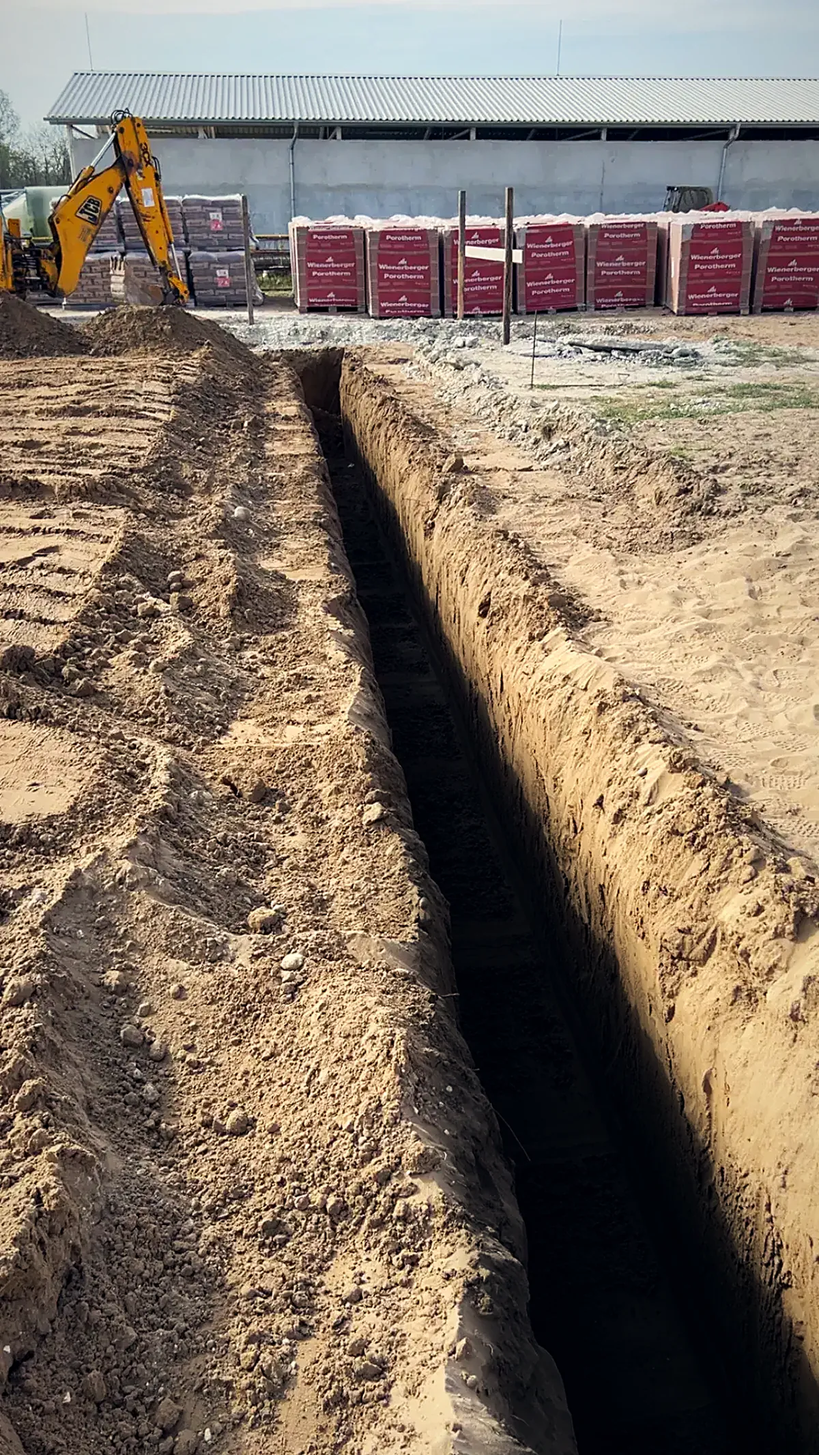
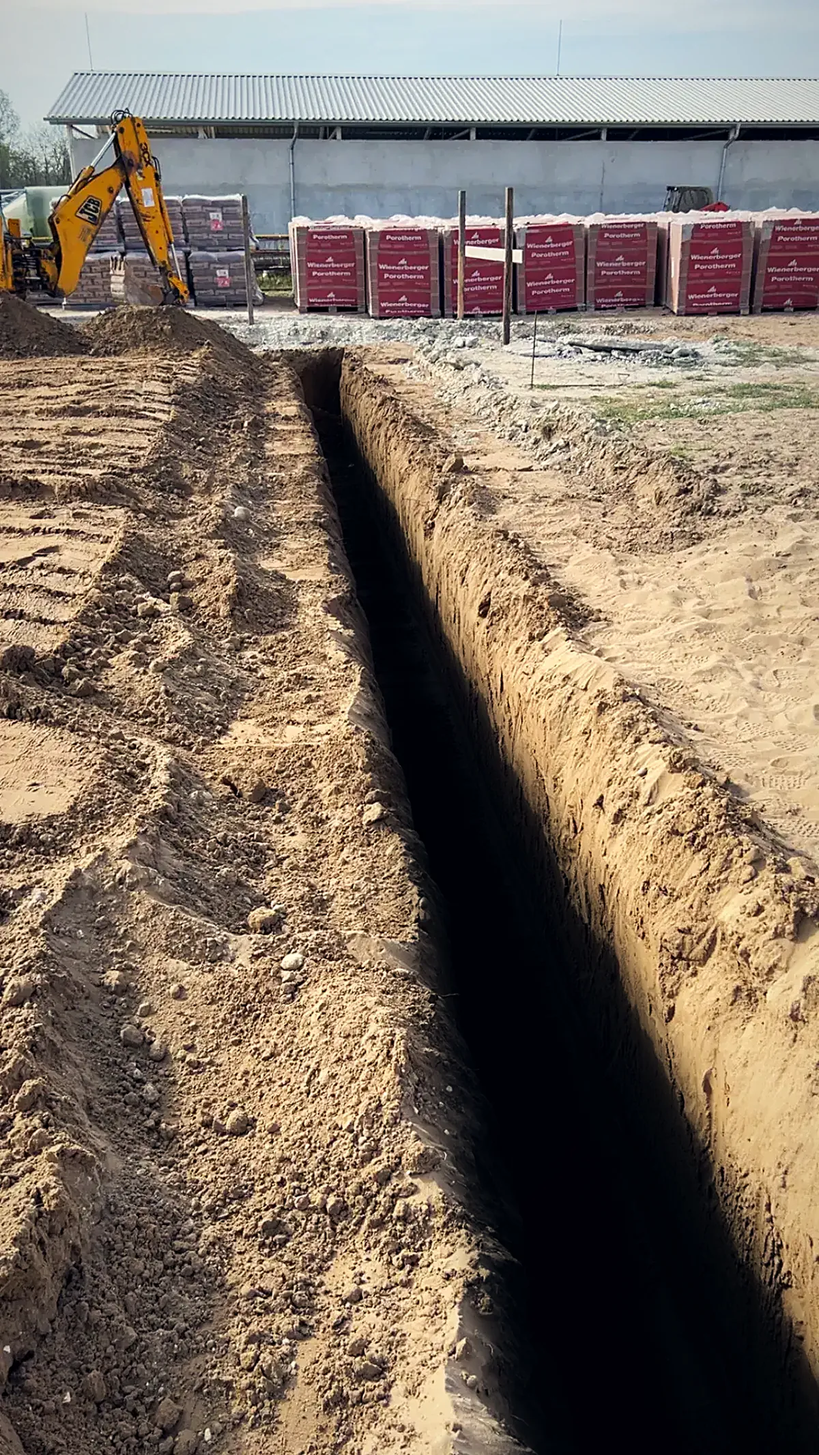
latvanyterv(kalocsa-zoltan): 12. kör – sokkal mélyebb árokfenék, képek verziózva; a térkép nem akasztja meg a görgetést
Claude-Session: https://claude.ai/code/session_01VV8crhpwauy8tDvA7AFdp9

diff --git a/public/latvanytervek/kalocsa-zoltan/index.html b/public/latvanytervek/kalocsa-zoltan/index.html
@@ -11,7 +11,7 @@
 <link rel="preload" href="fonts/archivo-kgw.woff" as="font" type="font/woff" crossorigin>
 <link rel="preload" href="video/hero-poster.webp" as="image" type="image/webp" media="(min-width: 861px)">
 <link rel="preload" href="video/hero-poster-mobil.webp" as="image" type="image/webp" media="(max-width: 860px)">
-<link rel="stylesheet" href="kalocsa.css?v=31">
+<link rel="stylesheet" href="kalocsa.css?v=32">
 <script>if(!matchMedia("(prefers-reduced-motion: reduce)").matches){document.documentElement.classList.add("anim");setTimeout(function(){if(!window.gsap)document.documentElement.classList.remove("anim")},3000)}</script>
 </head>
 <body>
@@ -52,10 +52,10 @@
       <source media="(max-width: 860px)" srcset="video/hero-poster-mobil.webp" width="864" height="720">
       <img src="video/hero-poster.webp" width="1600" height="900" alt="Szemléltető kép: kisebb kotrógép árkot ás, mellette kitermelt földkupac" fetchpriority="high" decoding="async">
     </picture>
-    <img class="scene" data-src="img/hero-kisgep-1425.webp" data-srcset="img/hero-kisgep-900.webp 900w, img/hero-kisgep-1425.webp 1425w" sizes="(max-width: 860px) 100vw, 66vw" width="1425" height="1068" alt="Kisebb munkagép dolgozik egy fás területen, előtérben kiforgatott föld" decoding="async">
-    <img class="scene" data-src="img/hero-tusko-1425.webp" data-srcset="img/hero-tusko-900.webp 900w, img/hero-tusko-1425.webp 1425w" sizes="(max-width: 860px) 100vw, 66vw" width="1425" height="1068" alt="Gép kanalában kiemelt nagy tuskó gyökérzettel" decoding="async">
-    <img class="scene" data-src="img/hero-rendezes-1425.webp" data-srcset="img/hero-rendezes-900.webp 900w, img/hero-rendezes-1425.webp 1425w" sizes="(max-width: 860px) 100vw, 66vw" width="1425" height="1068" alt="Géppel elegyengetett földterület fák előtt" decoding="async">
-    <img class="scene" data-src="img/hero-arok-1425.webp" data-srcset="img/hero-arok-900.webp 900w, img/hero-arok-1425.webp 1425w" sizes="(max-width: 860px) 100vw, 66vw" width="1425" height="1068" alt="Kiásott közműárok homokos talajban, háttérben kotró-rakodó" decoding="async">
+    <img class="scene" data-src="img/hero-kisgep-1425.webp?v=12" data-srcset="img/hero-kisgep-900.webp?v=12 900w, img/hero-kisgep-1425.webp?v=12 1425w" sizes="(max-width: 860px) 100vw, 66vw" width="1425" height="1068" alt="Kisebb munkagép dolgozik egy fás területen, előtérben kiforgatott föld" decoding="async">
+    <img class="scene" data-src="img/hero-tusko-1425.webp?v=12" data-srcset="img/hero-tusko-900.webp?v=12 900w, img/hero-tusko-1425.webp?v=12 1425w" sizes="(max-width: 860px) 100vw, 66vw" width="1425" height="1068" alt="Gép kanalában kiemelt nagy tuskó gyökérzettel" decoding="async">
+    <img class="scene" data-src="img/hero-rendezes-1425.webp?v=12" data-srcset="img/hero-rendezes-900.webp?v=12 900w, img/hero-rendezes-1425.webp?v=12 1425w" sizes="(max-width: 860px) 100vw, 66vw" width="1425" height="1068" alt="Géppel elegyengetett földterület fák előtt" decoding="async">
+    <img class="scene" data-src="img/hero-arok-1425.webp?v=12" data-srcset="img/hero-arok-900.webp?v=12 900w, img/hero-arok-1425.webp?v=12 1425w" sizes="(max-width: 860px) 100vw, 66vw" width="1425" height="1068" alt="Kiásott közműárok homokos talajban, háttérben kotró-rakodó" decoding="async">
   </div>
   <div class="hero__shade" aria-hidden="true"></div>
   <p class="hero__tag" aria-hidden="true">Szemléltető animáció</p>
@@ -208,27 +208,27 @@
     <div class="tabpanel" id="panel-osszes" role="tabpanel" aria-labelledby="tab-osszes">
       <div class="wgrid">
         <article class="wcard">
-          <button class="wcard__img" data-full="img/pirto-2-1200.webp" data-cap="Pirtó–Halas – árok a vasútvonal mentén" aria-label="Nagyítás: Pirtó–Halas – árok a vasútvonal mentén"><img src="img/pirto-2-720.webp" srcset="img/pirto-2-720.webp 720w, img/pirto-2-1200.webp 1200w" sizes="(max-width: 640px) 100vw, (max-width: 1100px) 50vw, 380px" width="720" height="960" loading="lazy" decoding="async" alt="Hosszú, egyenes árok homokos talajban a vasútvonal mellett, háttérben az állomásépület"><i class="wcard__zoom" aria-hidden="true"></i></button>
+          <button class="wcard__img" data-full="img/pirto-2-1200.webp?v=12" data-cap="Pirtó–Halas – árok a vasútvonal mentén" aria-label="Nagyítás: Pirtó–Halas – árok a vasútvonal mentén"><img src="img/pirto-2-720.webp?v=12" srcset="img/pirto-2-720.webp?v=12 720w, img/pirto-2-1200.webp?v=12 1200w" sizes="(max-width: 640px) 100vw, (max-width: 1100px) 50vw, 380px" width="720" height="960" loading="lazy" decoding="async" alt="Hosszú, egyenes árok homokos talajban a vasútvonal mellett, háttérben az állomásépület"><i class="wcard__zoom" aria-hidden="true"></i></button>
           <div class="wcard__body"><p class="wcard__tag">Árokásás · vasút mentén</p><h3>Pirtó–Halas, 18 km</h3><p>Árok a vasúti nyomvonal mentén, homokos talajban – a 18 km-es szakasz egyik része.</p></div>
         </article>
         <article class="wcard">
-          <button class="wcard__img" data-full="img/kozmuarok-melyebb-1200.webp" data-cap="Közműárok-ásás" aria-label="Nagyítás: Közműárok-ásás"><img src="img/kozmuarok-melyebb-720.webp" srcset="img/kozmuarok-melyebb-720.webp 720w, img/kozmuarok-melyebb-1200.webp 1200w" sizes="(max-width: 640px) 100vw, (max-width: 1100px) 50vw, 380px" width="720" height="1280" loading="lazy" decoding="async" alt="Mély, egyenes falú közműárok homokos talajban, mellette a kitermelt föld"><i class="wcard__zoom" aria-hidden="true"></i></button>
+          <button class="wcard__img" data-full="img/kozmuarok-melyebb-1200.webp?v=12" data-cap="Közműárok-ásás" aria-label="Nagyítás: Közműárok-ásás"><img src="img/kozmuarok-melyebb-720.webp?v=12" srcset="img/kozmuarok-melyebb-720.webp?v=12 720w, img/kozmuarok-melyebb-1200.webp?v=12 1200w" sizes="(max-width: 640px) 100vw, (max-width: 1100px) 50vw, 380px" width="720" height="1280" loading="lazy" decoding="async" alt="Mély, egyenes falú közműárok homokos talajban, mellette a kitermelt föld"><i class="wcard__zoom" aria-hidden="true"></i></button>
           <div class="wcard__body"><p class="wcard__tag">Közműárok-ásás</p><h3>Egyenes falú közműárok</h3><p>Árok a közművek fektetéséhez, a kitermelt föld rendezetten az árok mellett.</p></div>
         </article>
         <article class="wcard">
-          <button class="wcard__img" data-full="img/kisgep-kx019-1200.webp" data-cap="Kisgép munka közben – Kubota KX019-4" aria-label="Nagyítás: Kisgép munka közben – Kubota KX019-4"><img src="img/kisgep-kx019-720.webp" srcset="img/kisgep-kx019-720.webp 720w, img/kisgep-kx019-1200.webp 1200w" sizes="(max-width: 640px) 100vw, (max-width: 1100px) 50vw, 380px" width="720" height="960" loading="lazy" decoding="async" alt="Kubota KX019-4 kisgép kanállal földet mozgat egy építési telken"><i class="wcard__zoom" aria-hidden="true"></i></button>
+          <button class="wcard__img" data-full="img/kisgep-kx019-1200.webp?v=12" data-cap="Kisgép munka közben – Kubota KX019-4" aria-label="Nagyítás: Kisgép munka közben – Kubota KX019-4"><img src="img/kisgep-kx019-720.webp?v=12" srcset="img/kisgep-kx019-720.webp?v=12 720w, img/kisgep-kx019-1200.webp?v=12 1200w" sizes="(max-width: 640px) 100vw, (max-width: 1100px) 50vw, 380px" width="720" height="960" loading="lazy" decoding="async" alt="Kubota KX019-4 kisgép kanállal földet mozgat egy építési telken"><i class="wcard__zoom" aria-hidden="true"></i></button>
           <div class="wcard__body"><p class="wcard__tag">Kisgép</p><h3>Kisgép munka közben</h3><p>Kubota KX019-4 – kis mérete miatt keskeny kapun, ház mellett is befér.</p></div>
         </article>
         <article class="wcard">
-          <button class="wcard__img" data-full="img/tusko-1200.webp" data-cap="Tuskóeltávolítás" aria-label="Nagyítás: Tuskóeltávolítás"><img src="img/tusko-720.webp" srcset="img/tusko-720.webp 720w, img/tusko-1200.webp 1200w" sizes="(max-width: 640px) 100vw, (max-width: 1100px) 50vw, 380px" width="720" height="1280" loading="lazy" decoding="async" alt="Kiemelt nagy tuskó gyökérzettel egy gép kanalában"><i class="wcard__zoom" aria-hidden="true"></i></button>
+          <button class="wcard__img" data-full="img/tusko-1200.webp?v=12" data-cap="Tuskóeltávolítás" aria-label="Nagyítás: Tuskóeltávolítás"><img src="img/tusko-720.webp?v=12" srcset="img/tusko-720.webp?v=12 720w, img/tusko-1200.webp?v=12 1200w" sizes="(max-width: 640px) 100vw, (max-width: 1100px) 50vw, 380px" width="720" height="1280" loading="lazy" decoding="async" alt="Kiemelt nagy tuskó gyökérzettel egy gép kanalában"><i class="wcard__zoom" aria-hidden="true"></i></button>
           <div class="wcard__body"><p class="wcard__tag">Tuskóeltávolítás</p><h3>Tuskó gyökérzettel</h3><p>Nagy tuskó teljes gyökérzettel kiemelve – a terület utána rendezhető.</p></div>
         </article>
         <article class="wcard">
-          <button class="wcard__img" data-full="img/pirto-4-1200.webp" data-cap="Pirtó–Halas – árok fás szakaszon" aria-label="Nagyítás: Pirtó–Halas – árok fás szakaszon"><img src="img/pirto-4-720.webp" srcset="img/pirto-4-720.webp 720w, img/pirto-4-1200.webp 1200w" sizes="(max-width: 640px) 100vw, (max-width: 1100px) 50vw, 380px" width="720" height="960" loading="lazy" decoding="async" alt="Hosszú árok fás, bokros terepen a vasútvonal mellett"><i class="wcard__zoom" aria-hidden="true"></i></button>
+          <button class="wcard__img" data-full="img/pirto-4-1200.webp?v=12" data-cap="Pirtó–Halas – árok fás szakaszon" aria-label="Nagyítás: Pirtó–Halas – árok fás szakaszon"><img src="img/pirto-4-720.webp?v=12" srcset="img/pirto-4-720.webp?v=12 720w, img/pirto-4-1200.webp?v=12 1200w" sizes="(max-width: 640px) 100vw, (max-width: 1100px) 50vw, 380px" width="720" height="960" loading="lazy" decoding="async" alt="Hosszú árok fás, bokros terepen a vasútvonal mellett"><i class="wcard__zoom" aria-hidden="true"></i></button>
           <div class="wcard__body"><p class="wcard__tag">Árokásás · fás terep</p><h3>Pirtó–Halas, erdő mellett</h3><p>A nyomvonal fás, gyökeres szakaszon is tartja az irányt.</p></div>
         </article>
         <article class="wcard">
-          <button class="wcard__img" data-full="img/pirto-1-1200.webp" data-cap="Pirtói-szőlők – terepalakítás" aria-label="Nagyítás: Pirtói-szőlők – terepalakítás"><img src="img/pirto-1-720.webp" srcset="img/pirto-1-720.webp 720w, img/pirto-1-1200.webp 1200w" sizes="(max-width: 640px) 100vw, (max-width: 1100px) 50vw, 380px" width="720" height="960" loading="lazy" decoding="async" alt="Kubota kisgép földtöltésen a Pirtói-szőlők megállóhely mellett"><i class="wcard__zoom" aria-hidden="true"></i></button>
+          <button class="wcard__img" data-full="img/pirto-1-1200.webp?v=12" data-cap="Pirtói-szőlők – terepalakítás" aria-label="Nagyítás: Pirtói-szőlők – terepalakítás"><img src="img/pirto-1-720.webp?v=12" srcset="img/pirto-1-720.webp?v=12 720w, img/pirto-1-1200.webp?v=12 1200w" sizes="(max-width: 640px) 100vw, (max-width: 1100px) 50vw, 380px" width="720" height="960" loading="lazy" decoding="async" alt="Kubota kisgép földtöltésen a Pirtói-szőlők megállóhely mellett"><i class="wcard__zoom" aria-hidden="true"></i></button>
           <div class="wcard__body"><p class="wcard__tag">Terepalakítás</p><h3>Töltés a megállóhelynél</h3><p>Földtöltés alakítása a Pirtói-szőlők megállóhely mellett.</p></div>
         </article>
       </div>
@@ -241,12 +241,12 @@
         <div class="ba__grid">
           <div class="ba__col">
             <p class="ba__lbl ba__lbl--pre">Előtte</p>
-            <div class="ba__pair"><figure class="ba__tile"><button class="ba__img" data-full="img/fas-terulet-2-1200.webp" data-cap="Előtte – fás terület, munka közben" aria-label="Nagyítás: Előtte – fás terület, munka közben"><img src="img/fas-terulet-2-720.webp" srcset="img/fas-terulet-2-720.webp 720w, img/fas-terulet-2-1200.webp 1200w" sizes="(max-width: 640px) 50vw, 300px" width="720" height="960" loading="lazy" decoding="async" alt="Kisgép fás területen, előtte kiforgatott föld"></button><figcaption>Fás terület, munka közben</figcaption></figure><figure class="ba__tile"><button class="ba__img" data-full="img/fas-terulet-1-1200.webp" data-cap="Előtte – felforgatott, gyökeres talaj" aria-label="Nagyítás: Előtte – felforgatott, gyökeres talaj"><img src="img/fas-terulet-1-720.webp" srcset="img/fas-terulet-1-720.webp 720w, img/fas-terulet-1-1200.webp 1200w" sizes="(max-width: 640px) 50vw, 300px" width="720" height="960" loading="lazy" decoding="async" alt="Felforgatott talaj gyökércsonkokkal és ágakkal"></button><figcaption>Felforgatott, gyökeres talaj</figcaption></figure></div>
+            <div class="ba__pair"><figure class="ba__tile"><button class="ba__img" data-full="img/fas-terulet-2-1200.webp?v=12" data-cap="Előtte – fás terület, munka közben" aria-label="Nagyítás: Előtte – fás terület, munka közben"><img src="img/fas-terulet-2-720.webp?v=12" srcset="img/fas-terulet-2-720.webp?v=12 720w, img/fas-terulet-2-1200.webp?v=12 1200w" sizes="(max-width: 640px) 50vw, 300px" width="720" height="960" loading="lazy" decoding="async" alt="Kisgép fás területen, előtte kiforgatott föld"></button><figcaption>Fás terület, munka közben</figcaption></figure><figure class="ba__tile"><button class="ba__img" data-full="img/fas-terulet-1-1200.webp?v=12" data-cap="Előtte – felforgatott, gyökeres talaj" aria-label="Nagyítás: Előtte – felforgatott, gyökeres talaj"><img src="img/fas-terulet-1-720.webp?v=12" srcset="img/fas-terulet-1-720.webp?v=12 720w, img/fas-terulet-1-1200.webp?v=12 1200w" sizes="(max-width: 640px) 50vw, 300px" width="720" height="960" loading="lazy" decoding="async" alt="Felforgatott talaj gyökércsonkokkal és ágakkal"></button><figcaption>Felforgatott, gyökeres talaj</figcaption></figure></div>
           </div>
           <span class="ba__arrow" aria-hidden="true"><svg viewBox="0 0 24 24"><path d="M4 12h15M13 6l6 6-6 6"/></svg></span>
           <div class="ba__col">
             <p class="ba__lbl ba__lbl--post">Utána</p>
-            <div class="ba__pair"><figure class="ba__tile"><button class="ba__img" data-full="img/talajrendezes-1-1200.webp" data-cap="Utána – elegyengetett terület" aria-label="Nagyítás: Utána – elegyengetett terület"><img src="img/talajrendezes-1-720.webp" srcset="img/talajrendezes-1-720.webp 720w, img/talajrendezes-1-1200.webp 1200w" sizes="(max-width: 640px) 50vw, 300px" width="720" height="960" loading="lazy" decoding="async" alt="Géppel elegyengetett nagy földfelület"></button><figcaption>Elegyengetett felület</figcaption></figure><figure class="ba__tile"><button class="ba__img" data-full="img/talajrendezes-2-1200.webp" data-cap="Utána – a rendezett terület más szögből" aria-label="Nagyítás: Utána – a rendezett terület más szögből"><img src="img/talajrendezes-2-720.webp" srcset="img/talajrendezes-2-720.webp 720w, img/talajrendezes-2-1200.webp 1200w" sizes="(max-width: 640px) 50vw, 300px" width="720" height="960" loading="lazy" decoding="async" alt="Elegyengetett földterület más szögből, háttérben fasor"></button><figcaption>Ugyanaz, más szögből</figcaption></figure></div>
+            <div class="ba__pair"><figure class="ba__tile"><button class="ba__img" data-full="img/talajrendezes-1-1200.webp?v=12" data-cap="Utána – elegyengetett terület" aria-label="Nagyítás: Utána – elegyengetett terület"><img src="img/talajrendezes-1-720.webp?v=12" srcset="img/talajrendezes-1-720.webp?v=12 720w, img/talajrendezes-1-1200.webp?v=12 1200w" sizes="(max-width: 640px) 50vw, 300px" width="720" height="960" loading="lazy" decoding="async" alt="Géppel elegyengetett nagy földfelület"></button><figcaption>Elegyengetett felület</figcaption></figure><figure class="ba__tile"><button class="ba__img" data-full="img/talajrendezes-2-1200.webp?v=12" data-cap="Utána – a rendezett terület más szögből" aria-label="Nagyítás: Utána – a rendezett terület más szögből"><img src="img/talajrendezes-2-720.webp?v=12" srcset="img/talajrendezes-2-720.webp?v=12 720w, img/talajrendezes-2-1200.webp?v=12 1200w" sizes="(max-width: 640px) 50vw, 300px" width="720" height="960" loading="lazy" decoding="async" alt="Elegyengetett földterület más szögből, háttérben fasor"></button><figcaption>Ugyanaz, más szögből</figcaption></figure></div>
           </div>
         </div>
       </section>
@@ -255,10 +255,10 @@
     <div class="tabpanel" id="panel-kiemelt" role="tabpanel" aria-labelledby="tab-kiemelt" hidden>
       <article class="feat" data-feat="pirto-halas">
         <div class="feat__media"><div class="fgrid">
-          <figure class="ftile"><button class="ftile__img" data-full="img/pirto-1-1200.webp" data-cap="Pirtó–Halas – terepalakítás a megállóhelynél" aria-label="Nagyítás: Pirtó–Halas – terepalakítás a megállóhelynél"><img src="img/pirto-1-720.webp" srcset="img/pirto-1-720.webp 720w, img/pirto-1-1200.webp 1200w" sizes="(max-width: 860px) 50vw, 340px" width="720" height="960" loading="lazy" decoding="async" alt="Kubota kisgép földtöltésen a Pirtói-szőlők megállóhely mellett"></button><figcaption>Terepalakítás a megállóhelynél</figcaption></figure>
-          <figure class="ftile"><button class="ftile__img" data-full="img/pirto-2-1200.webp" data-cap="Pirtó–Halas – árok homokos talajban" aria-label="Nagyítás: Pirtó–Halas – árok homokos talajban"><img src="img/pirto-2-720.webp" srcset="img/pirto-2-720.webp 720w, img/pirto-2-1200.webp 1200w" sizes="(max-width: 860px) 50vw, 340px" width="720" height="960" loading="lazy" decoding="async" alt="Hosszú, egyenes árok homokos talajban a vasútvonal mellett"></button><figcaption>Árok homokos talajban</figcaption></figure>
-          <figure class="ftile"><button class="ftile__img" data-full="img/pirto-3-1200.webp" data-cap="Pirtó–Halas – a gép a nyomvonalon" aria-label="Nagyítás: Pirtó–Halas – a gép a nyomvonalon"><img src="img/pirto-3-720.webp" srcset="img/pirto-3-720.webp 720w, img/pirto-3-1200.webp 1200w" sizes="(max-width: 860px) 50vw, 340px" width="720" height="960" loading="lazy" decoding="async" alt="Kubota gémkar, mögötte a vasút mentén húzódó árok és az állomásépület"></button><figcaption>A gép a nyomvonalon</figcaption></figure>
-          <figure class="ftile"><button class="ftile__img" data-full="img/pirto-4-1200.webp" data-cap="Pirtó–Halas – árok fás szakaszon" aria-label="Nagyítás: Pirtó–Halas – árok fás szakaszon"><img src="img/pirto-4-720.webp" srcset="img/pirto-4-720.webp 720w, img/pirto-4-1200.webp 1200w" sizes="(max-width: 860px) 50vw, 340px" width="720" height="960" loading="lazy" decoding="async" alt="Hosszú árok fás, bokros terepen a vasútvonal mellett"></button><figcaption>Fás, gyökeres szakasz</figcaption></figure>
+          <figure class="ftile"><button class="ftile__img" data-full="img/pirto-1-1200.webp?v=12" data-cap="Pirtó–Halas – terepalakítás a megállóhelynél" aria-label="Nagyítás: Pirtó–Halas – terepalakítás a megállóhelynél"><img src="img/pirto-1-720.webp?v=12" srcset="img/pirto-1-720.webp?v=12 720w, img/pirto-1-1200.webp?v=12 1200w" sizes="(max-width: 860px) 50vw, 340px" width="720" height="960" loading="lazy" decoding="async" alt="Kubota kisgép földtöltésen a Pirtói-szőlők megállóhely mellett"></button><figcaption>Terepalakítás a megállóhelynél</figcaption></figure>
+          <figure class="ftile"><button class="ftile__img" data-full="img/pirto-2-1200.webp?v=12" data-cap="Pirtó–Halas – árok homokos talajban" aria-label="Nagyítás: Pirtó–Halas – árok homokos talajban"><img src="img/pirto-2-720.webp?v=12" srcset="img/pirto-2-720.webp?v=12 720w, img/pirto-2-1200.webp?v=12 1200w" sizes="(max-width: 860px) 50vw, 340px" width="720" height="960" loading="lazy" decoding="async" alt="Hosszú, egyenes árok homokos talajban a vasútvonal mellett"></button><figcaption>Árok homokos talajban</figcaption></figure>
+          <figure class="ftile"><button class="ftile__img" data-full="img/pirto-3-1200.webp?v=12" data-cap="Pirtó–Halas – a gép a nyomvonalon" aria-label="Nagyítás: Pirtó–Halas – a gép a nyomvonalon"><img src="img/pirto-3-720.webp?v=12" srcset="img/pirto-3-720.webp?v=12 720w, img/pirto-3-1200.webp?v=12 1200w" sizes="(max-width: 860px) 50vw, 340px" width="720" height="960" loading="lazy" decoding="async" alt="Kubota gémkar, mögötte a vasút mentén húzódó árok és az állomásépület"></button><figcaption>A gép a nyomvonalon</figcaption></figure>
+          <figure class="ftile"><button class="ftile__img" data-full="img/pirto-4-1200.webp?v=12" data-cap="Pirtó–Halas – árok fás szakaszon" aria-label="Nagyítás: Pirtó–Halas – árok fás szakaszon"><img src="img/pirto-4-720.webp?v=12" srcset="img/pirto-4-720.webp?v=12 720w, img/pirto-4-1200.webp?v=12 1200w" sizes="(max-width: 860px) 50vw, 340px" width="720" height="960" loading="lazy" decoding="async" alt="Hosszú árok fás, bokros terepen a vasútvonal mellett"></button><figcaption>Fás, gyökeres szakasz</figcaption></figure>
         </div></div>
         <div class="feat__body">
           <p class="kicker"><span class="dot"></span>Kiemelt munka · 01</p>
@@ -275,8 +275,8 @@
 
       <article class="feat feat--rev" data-feat="elotte-utana">
         <div class="feat__media"><div class="fgrid fgrid--ba">
-          <figure class="ftile"><button class="ftile__img" data-full="img/fas-terulet-1-1200.webp" data-cap="Előtte – felforgatott, gyökeres talaj" aria-label="Nagyítás: Előtte – felforgatott, gyökeres talaj"><img src="img/fas-terulet-1-720.webp" srcset="img/fas-terulet-1-720.webp 720w, img/fas-terulet-1-1200.webp 1200w" sizes="(max-width: 860px) 50vw, 340px" width="720" height="960" loading="lazy" decoding="async" alt="Felforgatott talaj gyökércsonkokkal és ágakkal"></button><figcaption><b class="pill pill--pre">Előtte</b> Fás, gyökeres terület</figcaption></figure>
-          <figure class="ftile"><button class="ftile__img" data-full="img/talajrendezes-1-1200.webp" data-cap="Utána – elegyengetett terület" aria-label="Nagyítás: Utána – elegyengetett terület"><img src="img/talajrendezes-1-720.webp" srcset="img/talajrendezes-1-720.webp 720w, img/talajrendezes-1-1200.webp 1200w" sizes="(max-width: 860px) 50vw, 340px" width="720" height="960" loading="lazy" decoding="async" alt="Géppel elegyengetett nagy földfelület"></button><figcaption><b class="pill pill--post">Utána</b> Rendezett felület</figcaption></figure>
+          <figure class="ftile"><button class="ftile__img" data-full="img/fas-terulet-1-1200.webp?v=12" data-cap="Előtte – felforgatott, gyökeres talaj" aria-label="Nagyítás: Előtte – felforgatott, gyökeres talaj"><img src="img/fas-terulet-1-720.webp?v=12" srcset="img/fas-terulet-1-720.webp?v=12 720w, img/fas-terulet-1-1200.webp?v=12 1200w" sizes="(max-width: 860px) 50vw, 340px" width="720" height="960" loading="lazy" decoding="async" alt="Felforgatott talaj gyökércsonkokkal és ágakkal"></button><figcaption><b class="pill pill--pre">Előtte</b> Fás, gyökeres terület</figcaption></figure>
+          <figure class="ftile"><button class="ftile__img" data-full="img/talajrendezes-1-1200.webp?v=12" data-cap="Utána – elegyengetett terület" aria-label="Nagyítás: Utána – elegyengetett terület"><img src="img/talajrendezes-1-720.webp?v=12" srcset="img/talajrendezes-1-720.webp?v=12 720w, img/talajrendezes-1-1200.webp?v=12 1200w" sizes="(max-width: 860px) 50vw, 340px" width="720" height="960" loading="lazy" decoding="async" alt="Géppel elegyengetett nagy földfelület"></button><figcaption><b class="pill pill--post">Utána</b> Rendezett felület</figcaption></figure>
         </div></div>
         <div class="feat__body">
           <p class="kicker"><span class="dot"></span>Kiemelt munka · 02</p>
@@ -291,7 +291,7 @@
 
       <article class="feat" data-feat="kozmuarok">
         <div class="feat__media"><div class="fgrid fgrid--one">
-          <figure class="ftile"><button class="ftile__img" data-full="img/kozmuarok-melyebb-1200.webp" data-cap="Közműárok-ásás" aria-label="Nagyítás: Közműárok-ásás"><img src="img/kozmuarok-melyebb-720.webp" srcset="img/kozmuarok-melyebb-720.webp 720w, img/kozmuarok-melyebb-1200.webp 1200w" sizes="(max-width: 860px) 100vw, 680px" width="1069" height="1900" loading="lazy" decoding="async" alt="Mély, egyenes falú közműárok homokos talajban"></button><figcaption>Egyenes falú árok homokos talajban</figcaption></figure>
+          <figure class="ftile"><button class="ftile__img" data-full="img/kozmuarok-melyebb-1200.webp?v=12" data-cap="Közműárok-ásás" aria-label="Nagyítás: Közműárok-ásás"><img src="img/kozmuarok-melyebb-720.webp?v=12" srcset="img/kozmuarok-melyebb-720.webp?v=12 720w, img/kozmuarok-melyebb-1200.webp?v=12 1200w" sizes="(max-width: 860px) 100vw, 680px" width="1069" height="1900" loading="lazy" decoding="async" alt="Mély, egyenes falú közműárok homokos talajban"></button><figcaption>Egyenes falú árok homokos talajban</figcaption></figure>
         </div></div>
         <div class="feat__body">
           <p class="kicker"><span class="dot"></span>Kiemelt munka · 03</p>
@@ -311,7 +311,7 @@
 <section class="sec sec--panel" id="rolam" aria-labelledby="rolam-cim">
   <div class="wrap about">
     <figure class="portrait">
-      <img src="img/portre-720.webp" srcset="img/portre-720.webp 720w, img/portre-1200.webp 1200w" sizes="(max-width: 860px) 100vw, 440px" width="720" height="960" loading="lazy" decoding="async" alt="Kalocsa Zoltán a Kubota kisgépe mellett, munkaterületen">
+      <img src="img/portre-720.webp?v=12" srcset="img/portre-720.webp?v=12 720w, img/portre-1200.webp?v=12 1200w" sizes="(max-width: 860px) 100vw, 440px" width="720" height="960" loading="lazy" decoding="async" alt="Kalocsa Zoltán a Kubota kisgépe mellett, munkaterületen">
     </figure>
     <div class="about__copy">
       <p class="kicker"><span class="dot"></span>Rólam</p>
@@ -513,6 +513,6 @@
 
 <script src="js/gsap.min.js" defer></script>
 <script src="js/ScrollTrigger.min.js" defer></script>
-<script src="kalocsa.js?v=30" defer></script>
+<script src="kalocsa.js?v=32" defer></script>
 </body>
 </html>

diff --git a/public/latvanytervek/kalocsa-zoltan/kalocsa.js b/public/latvanytervek/kalocsa-zoltan/kalocsa.js
@@ -283,7 +283,22 @@
   function initMap() {
     const L = window.L; if (!L) return;
     $('#map-wrap').classList.add('is-live');
-    const map = L.map(mapEl, { scrollWheelZoom: false, zoomControl: true, attributionControl: true }).setView(MAP.center, 9);
+    // görgetés közben a térkép NEM foghatja meg az oldalt: alapból sem kerékkel, sem egy ujjal nem mozgatható;
+    // koppintás/kattintás után aktív, és amint kigörgetsz mellőle (vagy 8 mp tétlenség), újra „alszik”
+    const map = L.map(mapEl, { scrollWheelZoom: false, dragging: false, touchZoom: false, doubleClickZoom: false, boxZoom: false, keyboard: false, tap: false, zoomControl: true, attributionControl: true }).setView(MAP.center, 9);
+    const wrap = $('#map-wrap'), hint = d.createElement('button');
+    hint.type = 'button'; hint.className = 'map__hint'; hint.textContent = 'Koppints a térkép mozgatásához';
+    wrap.appendChild(hint);
+    let sleepT = 0;
+    const wake = () => {
+      ['dragging', 'touchZoom', 'scrollWheelZoom', 'doubleClickZoom'].forEach(k => map[k].enable());
+      wrap.classList.add('is-awake'); clearTimeout(sleepT); sleepT = setTimeout(sleep, 8000);
+    };
+    const sleep = () => { ['dragging', 'touchZoom', 'scrollWheelZoom', 'doubleClickZoom'].forEach(k => map[k].disable()); wrap.classList.remove('is-awake'); };
+    hint.addEventListener('click', wake);
+    map.on('click', wake);
+    ['movestart', 'zoomstart'].forEach(ev => map.on(ev, () => { if (wrap.classList.contains('is-awake')) { clearTimeout(sleepT); sleepT = setTimeout(sleep, 8000); } }));
+    if ('IntersectionObserver' in window) new IntersectionObserver(es => es.forEach(e => { if (!e.isIntersecting) sleep(); }), { threshold: .3 }).observe(wrap);
     // kulcs nélküli OpenStreetMap-csempék; a sötét hatást CSS-szűrő adja (.leaflet-tile-pane)
     L.tileLayer('https://tile.openstreetmap.org/{z}/{x}/{y}.png', {
       maxZoom: 18,
@@ -296,7 +311,6 @@
       .bindPopup('<b>Kecskemét</b>A munkaterület központja.<br>Körzet: 45 km.<br><a href="tel:+36704204170" style="color:#F27A21">+36 70 420 4170</a>');
     const job = L.marker([47.034, 19.776], { icon: icon(true), title: 'Munkajelölő (bemutató)' }).addTo(map)
       .bindPopup('<b>Munkajelölő – bemutató</b>Így jelenik majd meg egy aktuális munka helye.<br><small style="color:#A9B0B7">Ez nem valós munkahelyszín. Élesítéskor csak Zoltán által jóváhagyott, nem pontos lakcímre mutató helyszín kerül fel.</small>');
-    map.on('click', () => map.scrollWheelZoom.enable());
     // a rögzített nyitókép miatt az elrendezés később változhat → méret újraszámolása
     const fix = () => { map.invalidateSize(); };
     setTimeout(fix, 300); setTimeout(fix, 1500); addEventListener('resize', fix);

diff --git a/public/latvanytervek/kalocsa-zoltan/kalocsa.css b/public/latvanytervek/kalocsa-zoltan/kalocsa.css
@@ -477,3 +477,9 @@ p{margin:0 0 1em}
 .portrait img{aspect-ratio:3/4;object-position:50% 100%}
 @media (max-width:860px){.portrait img{aspect-ratio:3/4}}
 @media (max-width:600px){.wcard__img{aspect-ratio:4/5}.wcard__img img{object-position:50% 70%}}
+/* térkép: alvó állapotban nem fogja meg a görgetést */
+.map .leaflet-container{touch-action:pan-y pinch-zoom!important}
+.map.is-awake .leaflet-container{touch-action:none!important}
+.map__hint{position:absolute;left:50%;top:14px;transform:translateX(-50%);z-index:500;padding:9px 14px;border:0;border-radius:999px;background:rgba(30,34,38,.86);backdrop-filter:blur(6px);color:#fff;font:700 12px/1 var(--body);letter-spacing:.06em;cursor:pointer;box-shadow:0 0 0 1px rgba(242,122,33,.5);transition:opacity .3s}
+.map.is-awake .map__hint{opacity:0;pointer-events:none}
+.map:not(.is-live) .map__hint{display:none}

diff --git a/public/latvanytervek/kalocsa-zoltan/ATADAS.md b/public/latvanytervek/kalocsa-zoltan/ATADAS.md
@@ -3,6 +3,10 @@
 **Élő látványterv:** https://daekon-ship.github.io/daekon/latvanytervek/kalocsa-zoltan/ (noindex)
 **Állapot (2026.10.22., 10. kör):** ügyfélnek bemutatható látványterv. Az éles működéshez szükséges integrációk (űrlapküldés, mérés) előkészítve, de **nincsenek bekapcsolva** (lásd G).
 
+## 12. kör (2026.10.22.)
+- **Árkok sokkal mélyebbek:** a falak sötétítése mellett külön, keskenyebb maszk az árok fenekére (erős sötétítés + mélyebb tónus), így a talp „elnyelődik” – pirto-2, pirto-3, pirto-4, közműárok. A képek URL-je verziózva (`?v=12`), hogy a telefon ne a régit mutassa a gyorsítótárból.
+- **Térkép nem akasztja meg a görgetést:** alapból se kerékkel, se egy ujjal nem mozdul (a lap gördül tovább); „Koppints a térkép mozgatásához” gombra/koppintásra aktív, 8 mp tétlenség vagy kigörgetés után újra alszik.
+
 ## 11. kör (2026.10.22.)
 - **Rólam-fotó:** a teljes kép látszik (3:4 keret, alulra igazítva) – cipő, gép, tolólap is.
 - **„Elcsúszott” képek:** a kártyák és a kiemelt munkák kerete most a fotók saját álló 3:4-es arányát követi, így nem vágja le a gépet, a kanalat vagy a tetejét (mobilon 4:5, minimális vágással).
